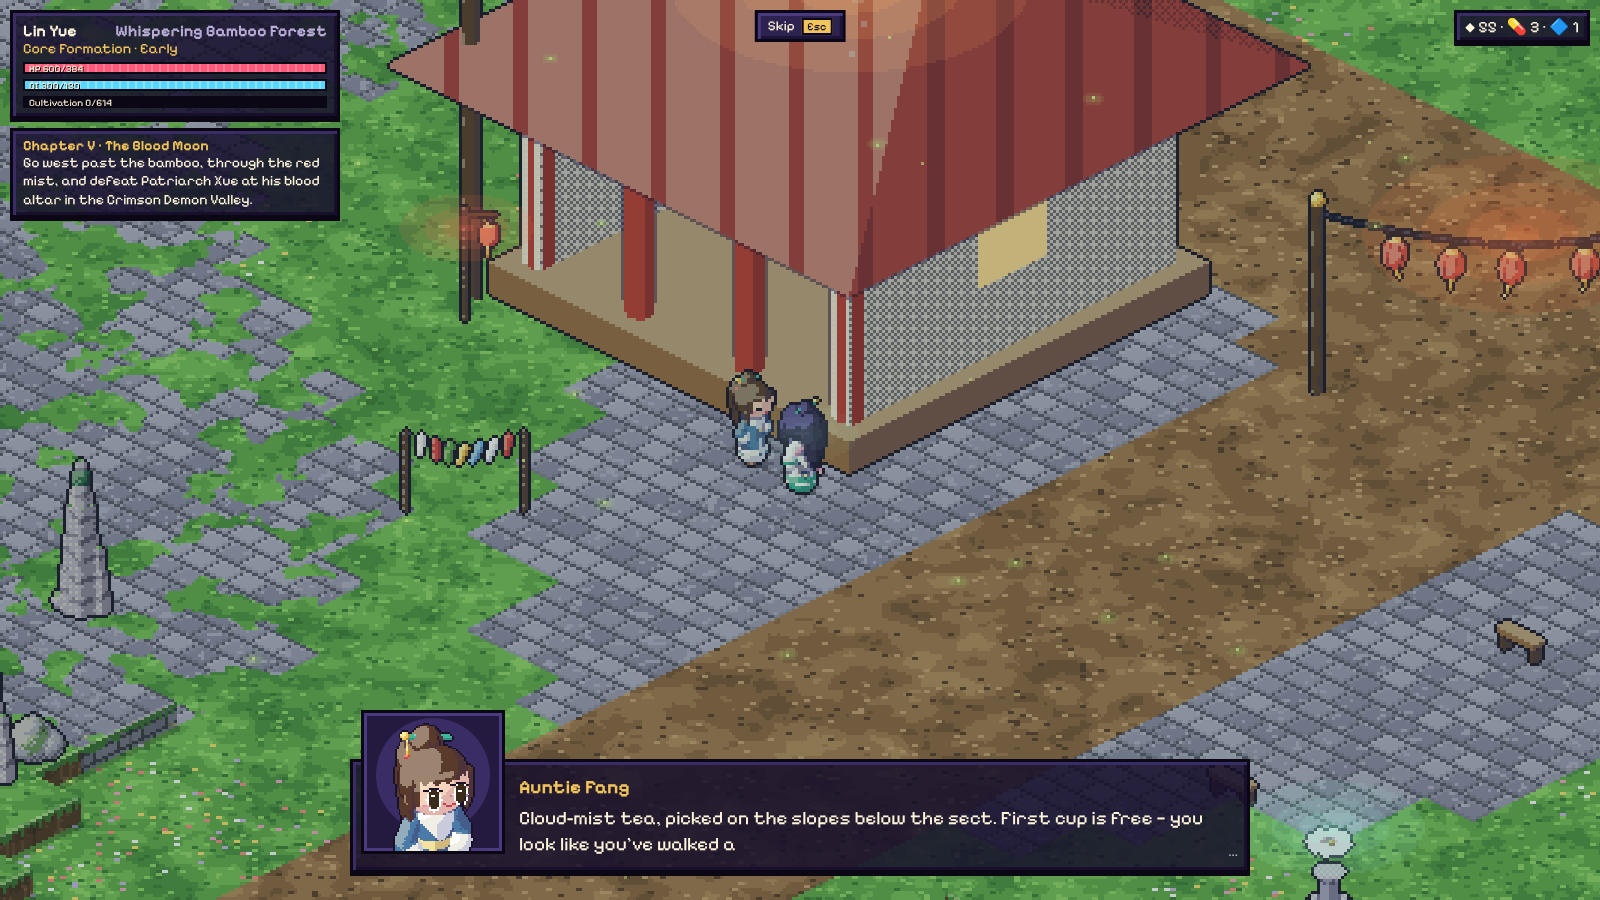
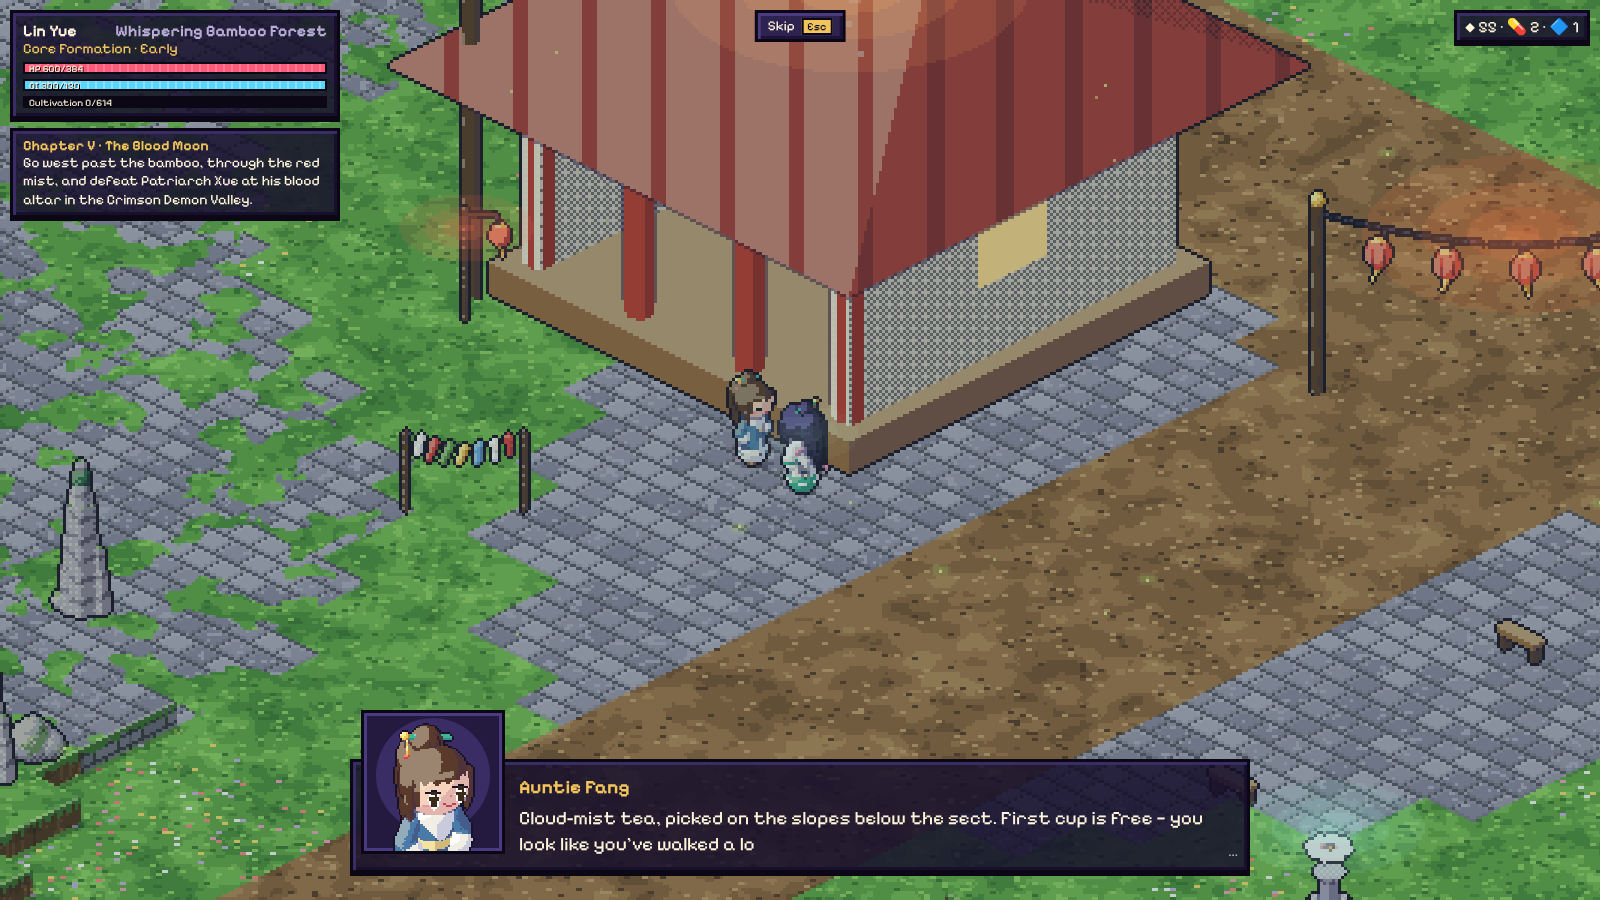
fix: smaller eyes on the dialogue portraits
Portrait eyes were drawn 1.3 × 2 times the portrait scale and crowded the
face; they are now 1.05 × 1.6 (about a fifth smaller), still big enough to
read blinks and expressions. Sprites in the world are unchanged.

Claude-Session: https://claude.ai/code/session_015UxLxX6fhxQhRUzcXLQ6K7

diff --git a/src/game/art/humanoid.ts b/src/game/art/humanoid.ts
@@ -482,8 +482,9 @@ function drawFace(r: Raster, st: HumanStyle, p: HumanPose, head: V3, HR: number,
     const outer = side * (r.basis.xh >= 0 ? 1 : -1);
     if (big) {
       const e = k * S;
-      const ew = Math.max(2, Math.round(1.3 * e));
-      const eh = Math.max(3, Math.round(2 * e));
+      // portrait eyes: big enough to read expressions, small enough not to swallow the face
+      const ew = Math.max(2, Math.round(1.05 * e));
+      const eh = Math.max(3, Math.round(1.6 * e));
       if (eyes === "closed" || eyes === "blink") {
         for (let i = -ew; i <= ew; i++) r.plot(x + i, y + Math.round(Math.abs(i) * 0.25) - (eyes === "blink" ? 1 : 0), lash);
       } else if (eyes === "hurt") {
